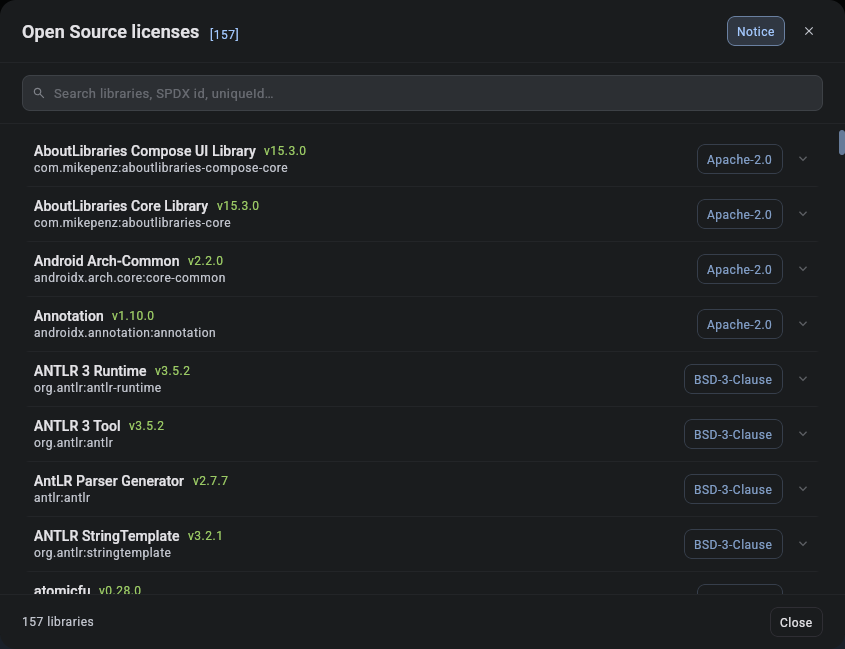
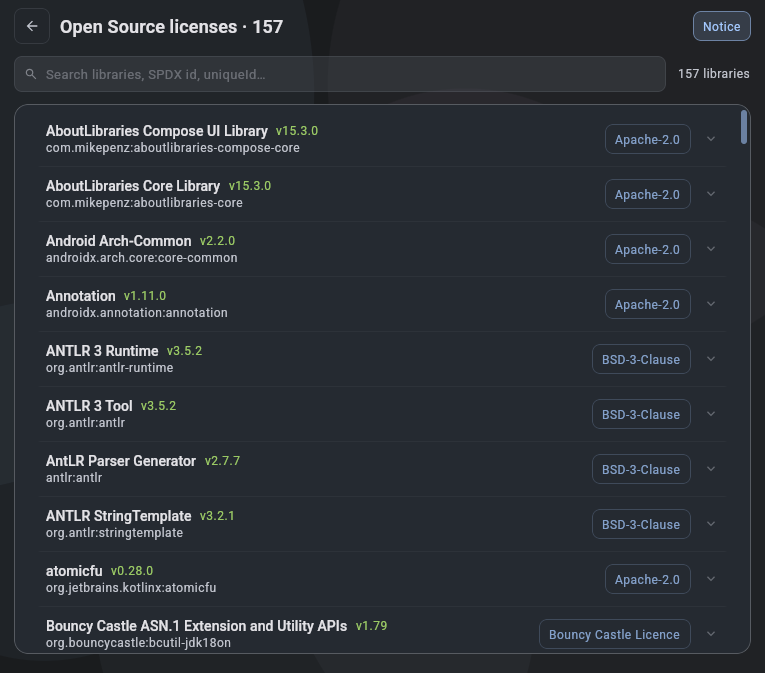
update docs

diff --git a/docs/documentation.md b/docs/documentation.md
@@ -122,16 +122,16 @@ The top bar sits at the top of the window and provides persistent navigation:
   <img src="images/documentation/gui/topbar.png" width="80%" alt="Topbar" style="vertical-align: middle"/>
 </p>
 
-The **Navigation Pill** sits in the center of the bar with an animated sliding indicator between the two primary pages:
+The **Navigation Pill** sits in the center of the bar on Home with an animated sliding indicator across the three primary pages. On workflow sub-screens (such as patch selection, patching, and result), the pill is replaced by a back button and screen title on the left and a **Settings** icon button next to the device indicator on the right:
 
 | Control                   | What it does                                                                                                                                                                                                                                                           |
 |---------------------------|------------------------------------------------------------------------------------------------------------------------------------------------------------------------------------------------------------------------------------------------------------------------|
 | **Sources** tab           | Opens the **Sources page** to add, edit, reorder, refresh, or remove patch sources and review signing keys – see [Managing patch sources](#gui-expert-sources).                                                                                                        |
 | **Apps** tab              | Opens the **Apps page** with the APK staging area, Supported apps catalog, and Your apps patching history.                                                                                                                                                             |
+| **Settings** tab / button | Opens the integrated **Settings page** for preferences, storage & cache management, signing, native lib stripping, and about info – see [Settings](#gui-settings).                                                                                                     |
 | **Loading indicator**     | Displays an animated loading pill while patch manifests and releases are being fetched.                                                                                                                                                                               |
 | **Offline badge**         | Appears when internet connectivity is unavailable; click to retry loading remote sources.                                                                                                                                                                              |
 | **Device indicator**      | Shows the connected ADB device (or "No devices connected"). Click to choose the target device for installs.                                                                                                                                                            |
-| **Settings** (gear)       | Preferences, storage & cache management, signing, native lib stripping, and about info – see [Settings](#gui-settings).                                                                                                                                                |
 
 <h4 id="gui-expert-home">1. Pick your APK</h4>
 
@@ -411,38 +411,44 @@ The detail view provides a comprehensive breakdown of the patched app:
 
 <h3 id="gui-settings">Settings</h3>
 
-The gear icon opens Settings – Morphe's persistent preferences. Think of it as the GUI's equivalent of the CLI flag set: most settings map directly to a `patch` flag.
+Open Settings from the **Settings** tab in the Home navigation pill, or via the top-right **Settings** button on any workflow sub-screen. Think of it as the GUI's equivalent of the CLI flag set: most settings map directly to a `patch` flag. Settings is laid out as an integrated two-pane page with a live **Search settings** bar and three categories in the left sidebar: **Appearance**, **Advanced**, and **System**.
 
 
 | Setting                        | What it does                                                                                              | Default                                                                              | CLI equivalent                                                                             |
 |--------------------------------|-----------------------------------------------------------------------------------------------------------|--------------------------------------------------------------------------------------|--------------------------------------------------------------------------------------------|
+| **Language**                   | Switch the app language (opens an inline searchable language pane with a translation link)                | System / English                                                                     | –                                                                                          |
 | **Theme mode**                 | App color scheme: Light, Dark, Amoled (pure black), System                                                | System                                                                               | –                                                                                          |
-| **Color style**                | Palette style: **Morphe** (dynamic colors and customized app cards) or **Monochrome** (pure monochrome)   | Morphe                                                                               | –                                                                                          |
+| **Color style**                | Palette style: **Morphe** (tinted Morphe palette) or **Monochrome** (grayscale monochrome)                | Morphe                                                                               | –                                                                                          |
 | **Accent color**               | Dynamic custom accent color applied across the UI (available when Color style is Morphe)                  | Morphe Blue                                                                          | –                                                                                          |
-| **Expert mode**                | Switch between Simple mode and Expert mode                                                                | Off (Simple mode)                                                                    | –                                                                                          |
+| **App cards**                  | Batch-customize **Color for every card**, toggle extracted **App icons**, and show/hide **More apps card** | Individual colors, icons on, card on                                                 | –                                                                                          |
+| **Sharp corners**              | Square off cards, dialogs, and buttons                                                                    | Off                                                                                  | –                                                                                          |
 | **Background animation**       | Choose an animated background style (e.g. Circles, Rings, Mesh, Space)                                    | Circles                                                                              | –                                                                                          |
 | **Parallax effect**            | Smooth background shifting when moving the mouse                                                          | On                                                                                   | –                                                                                          |
-| **Auto-cleanup temp files**    | Delete scratch files after patching                                                                       | On                                                                                   | On by default; `--disable-purge` to turn off                                               |
-| **Auto-start ADB**             | Start the ADB daemon on launch so devices are monitored                                                   | Off                                                                                  | enables `-i` / install features                                                            |
-| **Storage & cache**           | Clear downloaded patches and logs, open data root or logs directory                                       | –                                                                                    | [`utility clear-cache`](#utility-clear-cache)                                              |
-| **Update channel**             | Stable or Prerelease app updates (dropdown menu)                                                          | Smart (Prerelease on dev builds, else Stable)                                        | `--prerelease` (loosely)                                                                   |
-| **Output folder**              | Default location for patched APKs                                                                         | The input APK's folder                                                               | `-o` / `--out`                                                                             |
-| **Signing**                    | Keystore + credentials used to sign                                                                       | Shared `morphe.keystore`, alias `Morphe`, key password `Morphe`, store password empty | `--keystore`, `--keystore-password`, `--keystore-entry-alias`, `--keystore-entry-password` |
-| **Strip Libs**                 | Native-lib architectures to keep                                                                          | Keep all                                                                             | `--striplibs`                                                                              |
-| **Patched app runtime logs**   | Capture logcat from a device after a patched app misbehaves                                               | –                                                                                    | –                                                                                          |
+| **Expert mode**                | Switch between Simple mode and Expert mode (locked from workflow sub-screens and while patching)          | Off (Simple mode)                                                                    | –                                                                                          |
 | **Route links to patched app** | After an ADB install, auto-route the app's web links to it (with an optional "disable stock app's links") | Off                                                                                  | [`utility install --route-links`](#utility-install)                                        |
-| **Developer options**          | Unlock patch-developer workflows (point local source at a folder with auto-reloading newest .mpp)         | Off                                                                                  | –                                                                                          |
+| **Signing**                    | Keystore + credentials used to sign, certificate viewer, and export                                       | Shared `morphe.keystore`, alias `Morphe`, key password `Morphe`, store password empty | `--keystore`, `--keystore-password`, `--keystore-entry-alias`, `--keystore-entry-password` |
+| **Strip libs**                 | Native-lib architectures to keep                                                                          | Keep all                                                                             | `--striplibs`                                                                              |
+| **Developer options**          | Unlock patch-developer workflows (folder local sources, bytecode mode, fingerprint validation, SDK verify) | Off                                                                                  | –                                                                                          |
+| **Patched app runtime logs**   | Capture logcat from a device after a patched app misbehaves                                               | –                                                                                    | –                                                                                          |
+| **GitHub PAT**                 | Personal Access Token (`public_repo` scope) for downloading GitHub PR artifact bundles                    | –                                                                                    | `GITHUB_TOKEN` / `GH_TOKEN`                                                                |
+| **Auto-cleanup temp files**    | Delete scratch files after patching                                                                       | On                                                                                   | On by default; `--disable-purge` to turn off                                               |
+| **Check for updates**          | Stable, Prerelease, or Off app update checks (dropdown menu)                                              | Smart (Prerelease on dev builds, else Stable)                                        | `--prerelease` (loosely)                                                                   |
+| **Output folder**              | Default location for patched APKs                                                                         | The input APK's folder                                                               | `-o` / `--out`                                                                             |
+| **Auto-start ADB**             | Start the ADB daemon on launch so devices are monitored                                                   | Off                                                                                  | enables `-i` / install features                                                            |
+| **Storage & cache**            | Inspect and clear caches, or open data root / logs directory                                              | –                                                                                    | [`utility clear-cache`](#utility-clear-cache)                                              |
 
 <p align="center">
-  <img src="images/documentation/gui/settings.png" width="60%" alt="Settings dialog" style="vertical-align: middle"/>
+  <img src="images/documentation/gui/settings.png" width="75%" alt="Settings page" style="vertical-align: middle"/>
 </p>
 
 A couple of items worth expanding on:
 
-- **About section, Changelogs & Licenses** - The settings dialog includes an **About** section that displays the application version, developer info, a **View changelog** button, and **Open Source licenses**. The Changelog dialog features structured release notes parsed into categorized sections (*App support*, *Fixes*, *Improvements*, *New*, *Performance*, *Changes*) with change counters, clickable links, inline code chips, and release status badges (*Installed*, *Latest*, *Pre-release*).
-- **Storage & cache** - Found under **Settings → System**, this section displays live disk usage and file counts broken down by category (**Patches**, **Logs**, **Temporary files**, and **Avatar cache**). Each category can be cleared individually or all at once via **Clear all cache**, plus direct buttons to open Morphe's application data folder (`morphe-data/`) and logs folder (`morphe-data/logs/`) in your desktop file manager.
+- **Search & inline sub-views** - **Search settings** filters across **Appearance**, **Advanced**, and **System** at the same time (keeping matching nested groups such as **Developer options** expanded so matches are immediately reachable). **Current language**, **View changelogs**, and **Open Source licenses** open as inline panes inside Settings rather than separate modal dialogs.
+- **Mode switching & patching lock** - Switching **Expert mode** is only available when Settings is opened from Home; opening Settings from any workflow sub-screen locks the toggle (*"Return home to change mode"*). Settings under **Advanced** and **System** that affect patching are disabled while a run is active (*"Disabled while patching"*) and automatically re-enable as soon as patching finishes, while **Appearance** (including **Language**) and **About** remain interactive throughout.
+- **About, Changelogs & Licenses** - **Settings → System → About** displays the application version, **View changelogs**, **Open Source licenses**, **Documentation**, and **Visit website**. The Changelog pane (also opened directly from update banners) features structured release notes parsed into categorized sections (*App support*, *Fixes*, *Improvements*, *New*, *Performance*, *Changes*) with change counters, clickable links, inline code chips, and release status badges (*Installed*, *Latest*, *Pre-release*).
+- **Storage & cache** - Found under **Settings → System**, this section displays live disk usage and file counts broken down by category (**Patches**, **Logs**, **Temporary files**, **Avatar cache**, and **App icon cache**). Each category can be cleared individually or all at once via **Clear all cache**, plus direct buttons to open Morphe's application data folder (`morphe-data/`) and logs folder (`morphe-data/logs/`) in your desktop file manager.
 - **Auto-start ADB** - when off, Morphe never starts the ADB server and all install/push features are disabled. Turn it on to install patched APKs to your phone from Morphe.
-- **Update channel** - *Prerelease* surfaces pre-releases; *Stable* only stable ones. If you've never chosen, Morphe defaults smartly (Prerelease when you're running a dev build).
+- **Check for updates** - *Prerelease* surfaces pre-releases; *Stable* only stable ones; *Off* disables update checks. If you've never chosen, Morphe defaults smartly (Prerelease when you're running a dev build).
 - **Route links to patched app** - when on, every ADB install is followed by routing the app's supported web links to the patched app (the [Link handling](#gui-expert-links) step, run automatically). A nested **Disable stock app's links** option also stops the original app from opening those links – only relevant when a rename patch was used and the stock app is still installed. Both are reversible and need a connected device.
 
 <h4 id="gui-settings-signing">Signing</h4>
@@ -459,6 +465,7 @@ This is the GUI face of the `--keystore*` flags. Morphe signs every patched APK 
 | **Key password**          | The key entry's password (default:`Morphe`)               |
 | **Verify credentials**    | Check the keystore opens with the entered alias/passwords |
 | **Generate keystore**     | Create a fresh keystore                                   |
+| **Certificate**           | View certificate alias, issuer, validity, and SHA-256 / SHA-1 fingerprints |
 | **Export**                | Save the key as a `.p12` keystore that opens with the key password |
 
 <p align="center">
@@ -500,9 +507,12 @@ A debugging aid: capture logcat from a connected device after a patched app cras
 
 <h4 id="gui-settings-developer">Developer options</h4>
 
-This section is for people **building** patches and other developers. Off by default. Toggling it on unlocks a suite of workflow options to better assist you in your development. Please feel free to make a request in the issues tab if you feel a feature could be added here.
+This section is for people **building** patches and other developers. Off by default. Toggling it on unlocks patch-development tools under **Settings → Advanced → Developer options** as well as folder source workflows. Please feel free to make a request in the issues tab if you feel a feature could be added here.
 
-**Folder sources.** Normally a local source points at a single `.mpp` file. With Developer options on, the add/edit source dialog gains a **Folder** button next to **File**. Pick a folder and Morphe always loads the **newest `.mpp`** inside it. Point it at your patch build-output directory once and you never re-pick the file: each rebuild is used on the next load. The [source sheet](#gui-expert-sources) also gains a **refresh** button (top-right) that re-scans on demand, so a patch you just built shows up without leaving the screen. Build outputs like `*-sources.mpp` and `*-javadoc.mpp` are always ignored, and you can set your own exclude patterns for a folder source from the source manager.
+- **Bytecode mode** – choose the DEX bytecode transformation mode applied during patching (*Fast*, *Safe*, or *Full*).
+- **Fingerprint validation** – validate that each `match()` matches only one method (slower patching, useful when testing patches).
+- **Android SDK verification** – verify patched DEX and APK files using Android SDK tools (`d8`, `zipalign`), with an **Android SDK directory** picker (**Auto-detected** / **Browse** / **Reset**).
+- **Folder sources** – normally a local source points at a single `.mpp` file. With Developer options on, the add/edit source dialog gains a **Folder** button next to **File**. Pick a folder and Morphe always loads the **newest `.mpp`** inside it. Point it at your patch build-output directory once and you never re-pick the file: each rebuild is used on the next load. The [source sheet](#gui-expert-sources) also gains a **refresh** button (top-right) that re-scans on demand, so a patch you just built shows up without leaving the screen. Build outputs like `*-sources.mpp` and `*-javadoc.mpp` are always ignored, and you can set your own exclude patterns for a folder source from the source manager.
 
 > [!NOTE]
 > Existing folder sources keep working even if you later turn Developer options back off. The toggle only gates *creating* them.
@@ -514,17 +524,17 @@ Located under **Settings → System → Storage & cache**, this section centrali
 
 | Action            | What it does                                                                                                       |
 |-------------------|--------------------------------------------------------------------------------------------------------------------|
-| **Clear cache**   | Delete downloaded patches and log files (they re-download as needed)                                               |
+| **Clear all cache** / per-category **Clear** | Clear **Patches**, **Logs**, **Temporary files**, **Avatar cache**, and **App icon cache** individually or all at once |
 | **Open app data** | Open Morphe's data folder – the `morphe-data/` directory (see [Where Morphe stores its files](#where-files-stored)) |
 | **Open logs**     | Open the application logs folder (`morphe-data/logs/`) in your file manager                                        |
 
 > [!NOTE]
-> **Clear cache** displays your current cache size, asks for confirmation, and then safely removes downloaded `.mpp` files and logs from `morphe-data/`. Nothing irreversible, patches re-download on the next run. Cache clearing is disabled while a patch operation is in progress.
+> Each clear action displays your current size and item count, asks for confirmation, and safely removes cached files from `morphe-data/`. Nothing is irreversible: patches, avatars, and app icons are re-fetched or extracted as needed. Clearing caches is disabled while a patch operation is in progress.
 
-**Open Source licenses.** Accessible under **Settings → System → About → Open Source licenses**, this opens a searchable browser of the open-source licenses for every third-party library Morphe bundles. Use the search box to filter by name – handy for license compliance, or just to see what's under the hood.
+**Open Source licenses.** Accessible under **Settings → System → About → Open Source licenses**, this opens an inline searchable pane listing the open-source licenses for every third-party library Morphe bundles (alongside a **Notice** dialog with attribution details). Use the search box to filter by library name, SPDX ID, or coordinate – handy for license compliance, or just to see what's under the hood.
 
 <p align="center">
-  <img src="images/documentation/gui/licenses-browser.png" width="60%" alt="Licenses browser" style="vertical-align: middle"/>
+  <img src="images/documentation/gui/licenses-browser.png" width="60%" alt="Open Source licenses pane" style="vertical-align: middle"/>
 </p>
 
 <h3 id="gui-adb">Installing to a device (ADB)</h3>
@@ -664,7 +674,7 @@ java -jar morphe-desktop-*-all.jar patch --patches https://github.com/MorpheApp/
 > You can create a token at [github.com/settings/tokens](https://github.com/settings/tokens) (classic token with `public_repo` scope) and configure it via:
 >
 > - **Environment variable** (CLI): `export GITHUB_TOKEN="ghp_your_token"` (or `GH_TOKEN`)
-> - **Settings UI / Config**: In the GUI under **Settings &rarr; GitHub Personal Access Token**
+> - **Settings UI / Config**: In the GUI under **Settings &rarr; Advanced &rarr; GitHub PAT &rarr; Personal Access Token**
 
 <h5 id="using-multiple-bundles">Using multiple patch bundles</h5>
 
